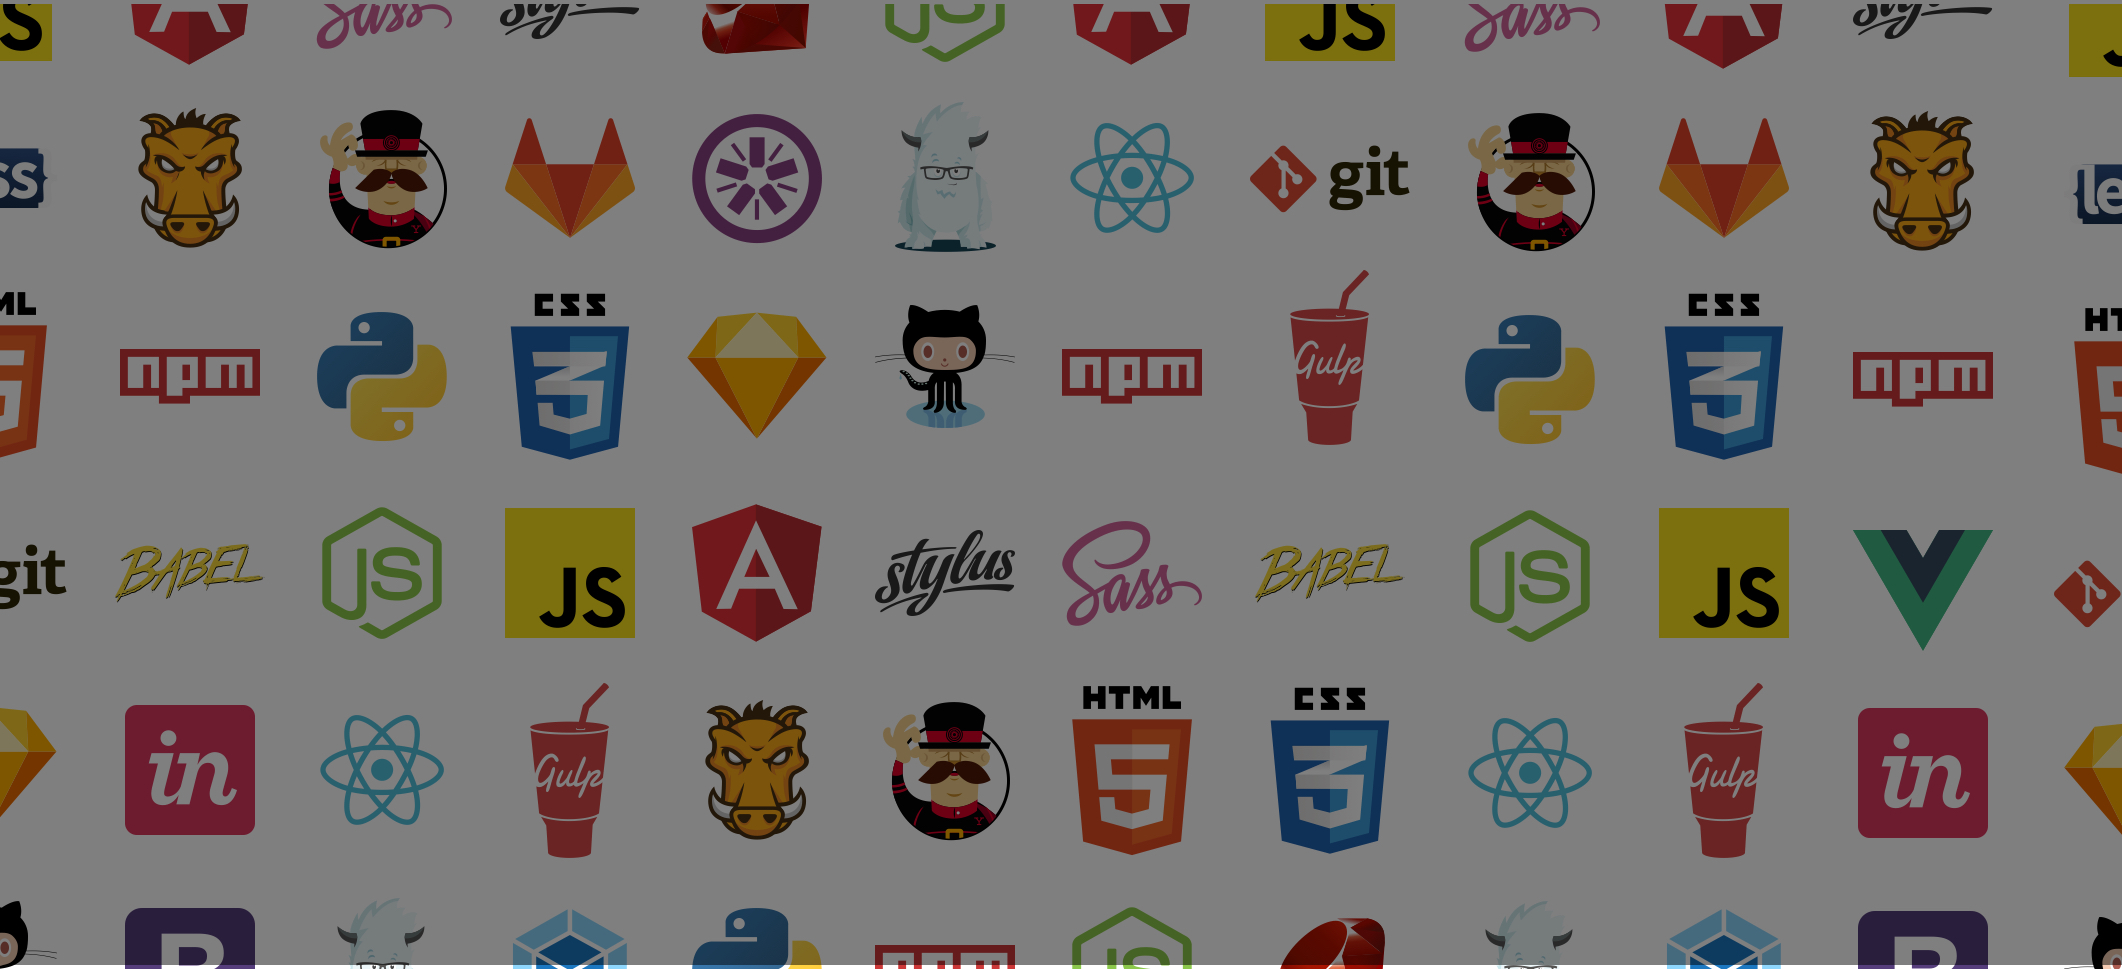
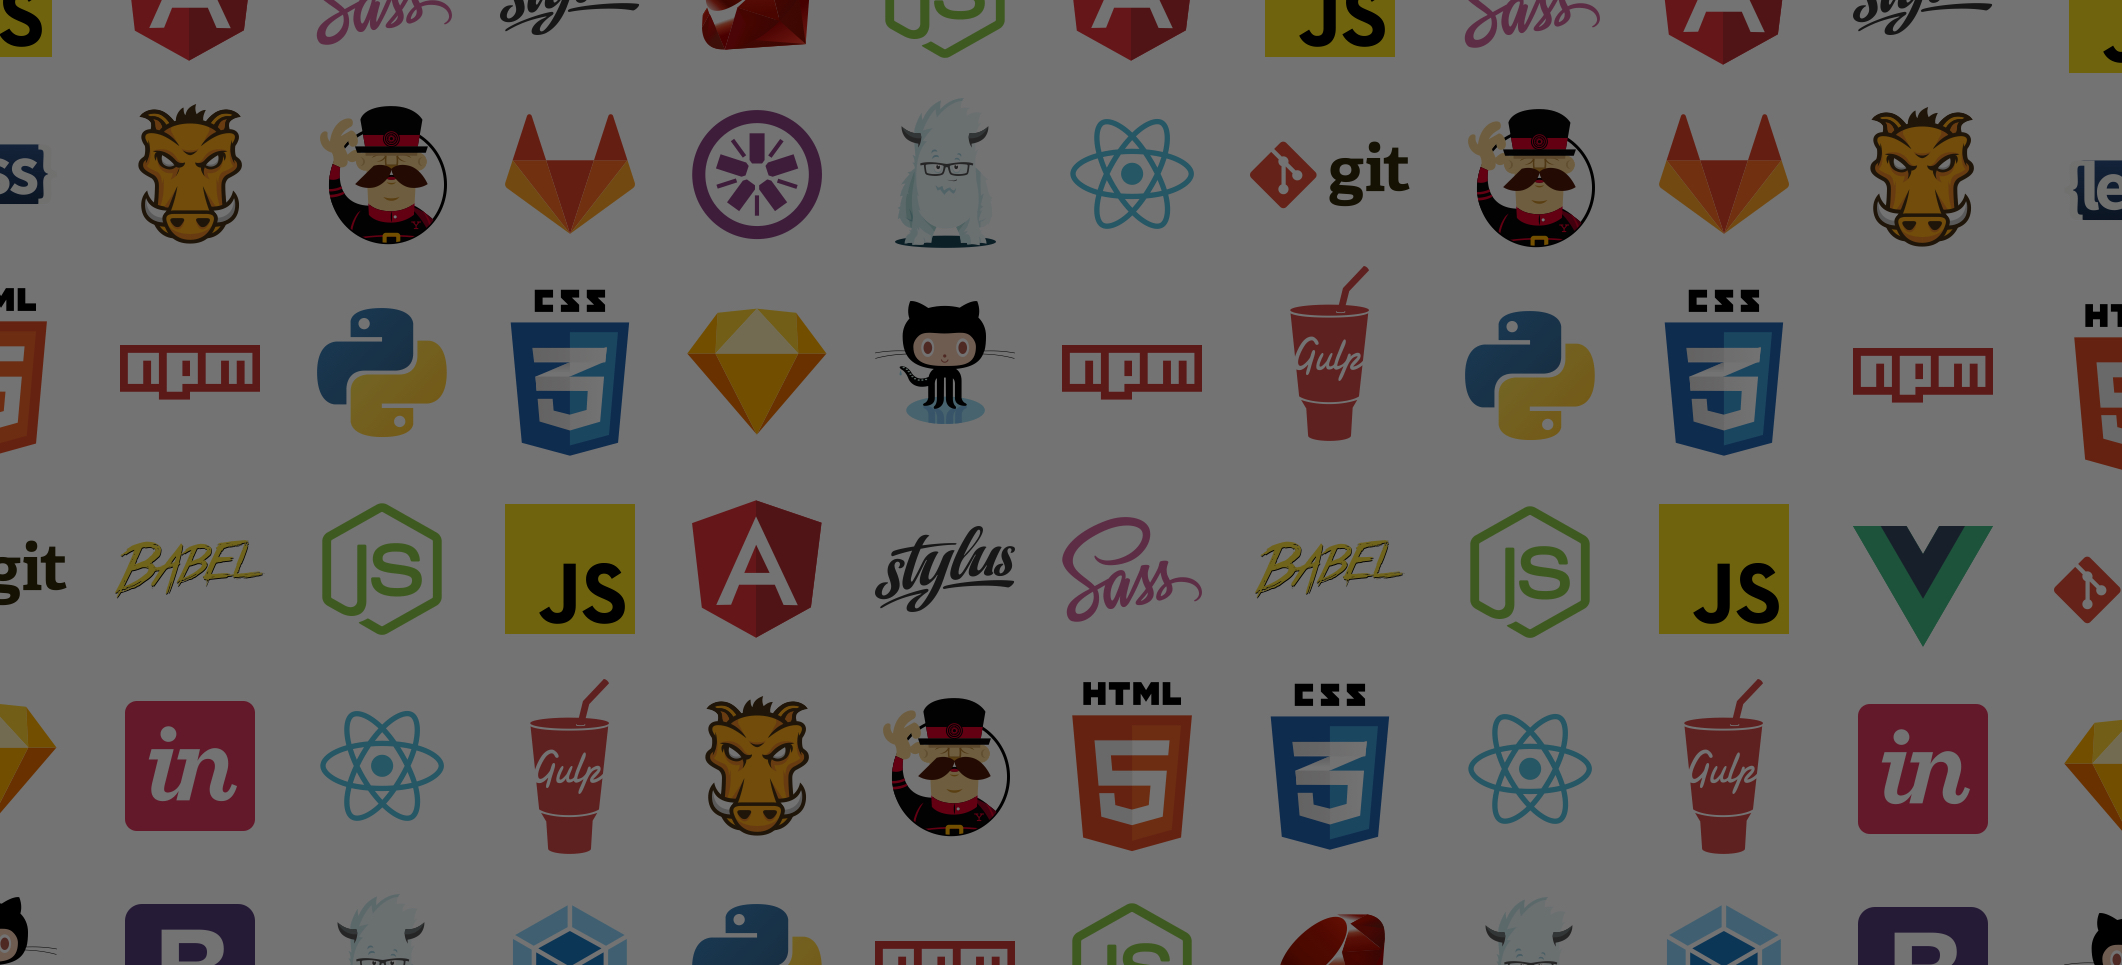
fix og image

diff --git a/src/pages/index.tsx b/src/pages/index.tsx
@@ -97,13 +97,13 @@ const IndexPage: React.SFC<IndexProps> = props => {
         <meta property="og:title" content={config.title} />
         <meta property="og:description" content={config.description} />
         <meta property="og:url" content={config.siteUrl} />
-        <meta property="og:image" content={props.data.header.childImageSharp.fluid.src} />
+        <meta property="og:image" content={props.data.social_bg.childImageSharp.fluid.src} />
         <meta property="article:publisher" content={config.facebook} />
         <meta name="twitter:card" content="summary_large_image" />
         <meta name="twitter:title" content={config.title} />
         <meta name="twitter:description" content={config.description} />
         <meta name="twitter:url" content={config.siteUrl} />
-        <meta name="twitter:image" content={props.data.header.childImageSharp.fluid.src} />
+        <meta name="twitter:image" content={props.data.social_bg.childImageSharp.fluid.src} />
         <meta name="twitter:site" content={`@${config.twitter.split('https://twitter.com/')[0]}`} />
         <meta property="og:image:width" content={width} />
         <meta property="og:image:height" content={height} />
@@ -164,6 +164,15 @@ export const pageQuery = graphql`
       }
     }
     header: file(relativePath: { eq: "img/common/yds-cover.jpg" }) {
+      childImageSharp {
+        # Specify the image processing specifications right in the query.
+        # Makes it trivial to update as your page's design changes.
+        fluid(maxWidth: 2000) {
+          ...GatsbyImageSharpFluid
+        }
+      }
+    }
+    social_bg: file(relativePath: { eq: "img/common/yds-social-bg.jpg" }) {
       childImageSharp {
         # Specify the image processing specifications right in the query.
         # Makes it trivial to update as your page's design changes.

diff --git a/src/website-config.ts b/src/website-config.ts
@@ -27,7 +27,7 @@ export interface WebsiteConfig {
 const config: WebsiteConfig = {
   title: 'Yamagata Developers Society',
   description: 'A community of professionals sharing knowledge',
-  coverImage: 'img/common/yds-cover.jpg',
+  coverImage: 'img/common/yds-social-bg.jpg',
   logo: 'img/common/yds-logo.png',
   siteUrl: 'https://yamagata-developers-society.github.io/blog/',
   facebook: 'https://www.facebook.com/pg/as.works.2015/events/',
